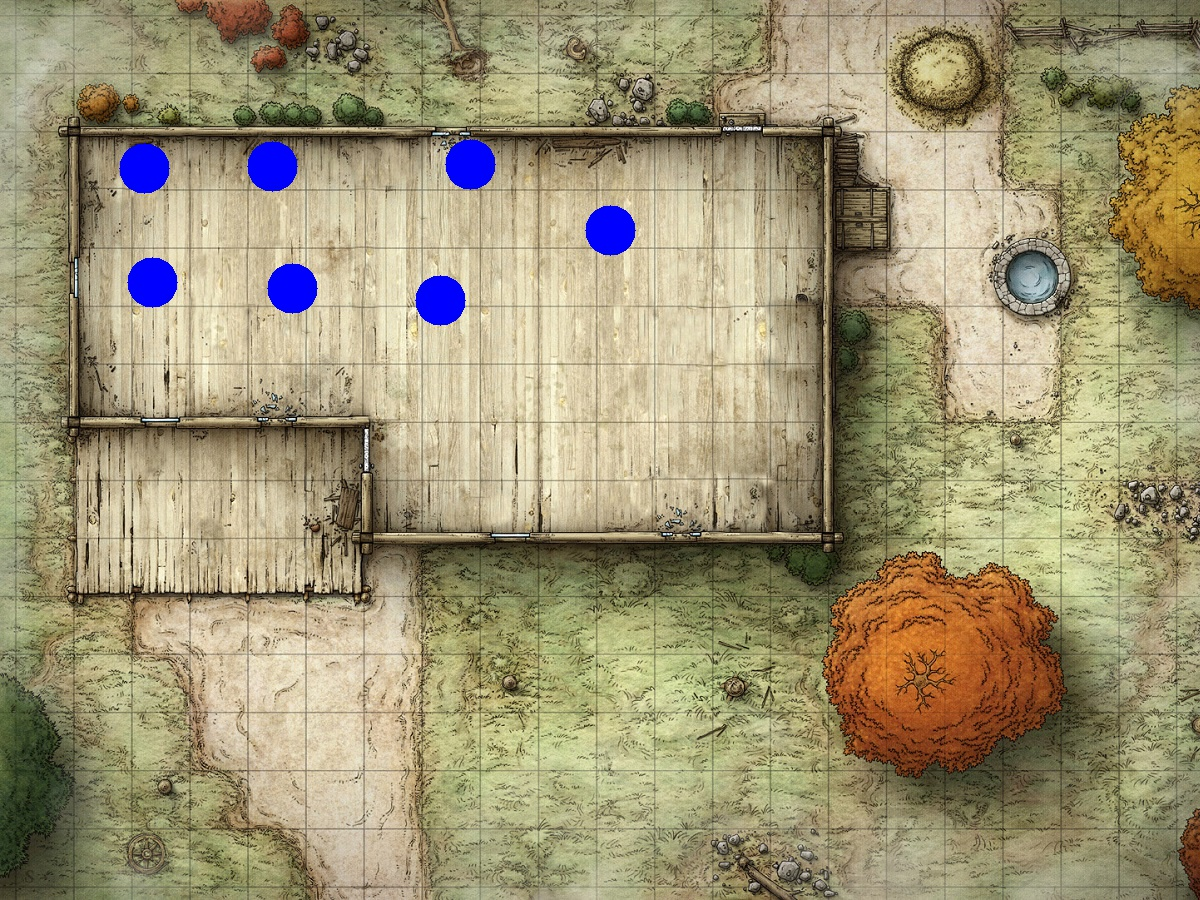
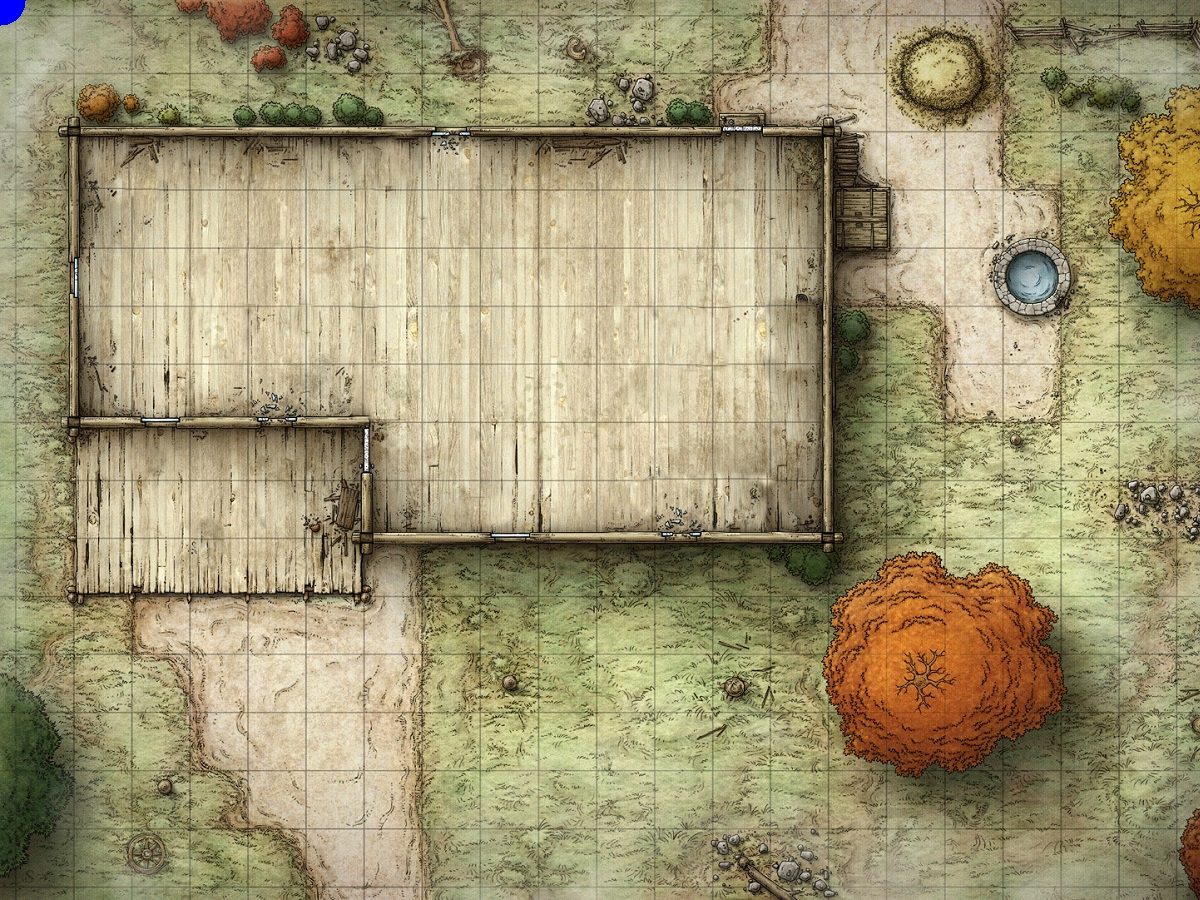
dynamic objects rather than persistent after being removed from screen

diff --git a/Server.py b/Server.py
@@ -53,6 +53,7 @@ class ClientThread(Thread):                                     # makes the clas
 
 
 
+
 # create a stream socket and bind it
 s = socket.socket(socket.AF_INET, socket.SOCK_STREAM)   # Creates a socket for IPv4 addresses with TCP
 s.setsockopt(socket.SOL_SOCKET, socket.SO_REUSEADDR, 1) # To set options at a socket level, makes the socket use itself and reuse its address

diff --git a/cv2Main.py b/cv2Main.py
@@ -220,6 +220,9 @@ while RUNNING:
             ma += 1
     if framedelay > 30:
         Client.send_pos(playerList)
+        for derp in range(0, len(playerList)):
+            playerList[derp].x = 0
+            playerList[derp].y = 0
         framedelay = 0
         backgroundCounter += 1
 
